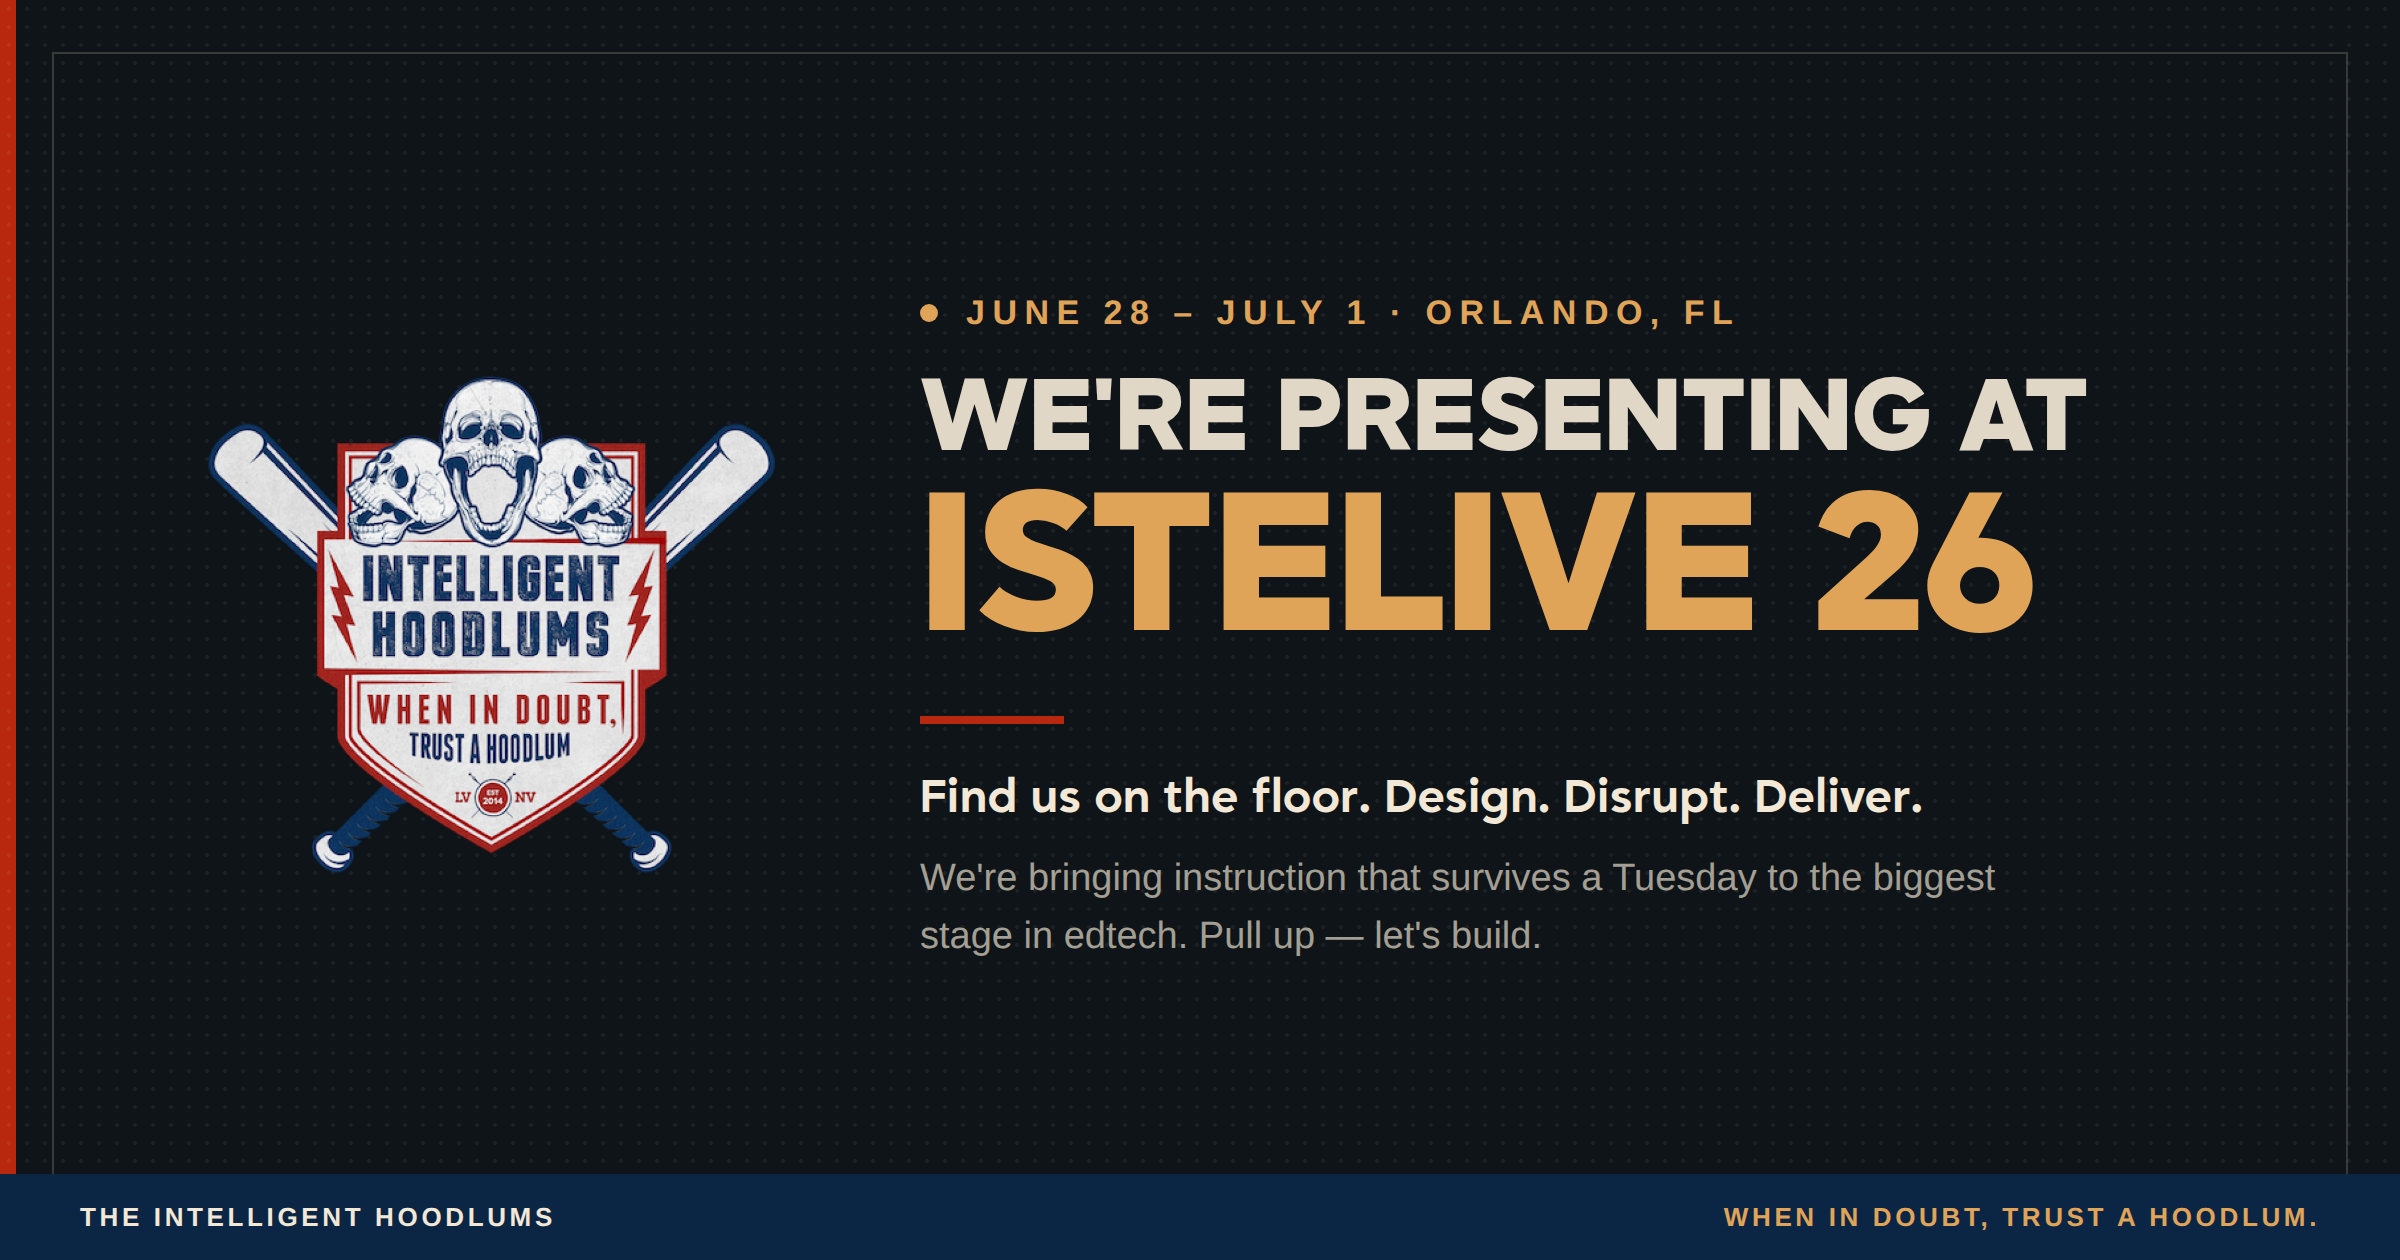
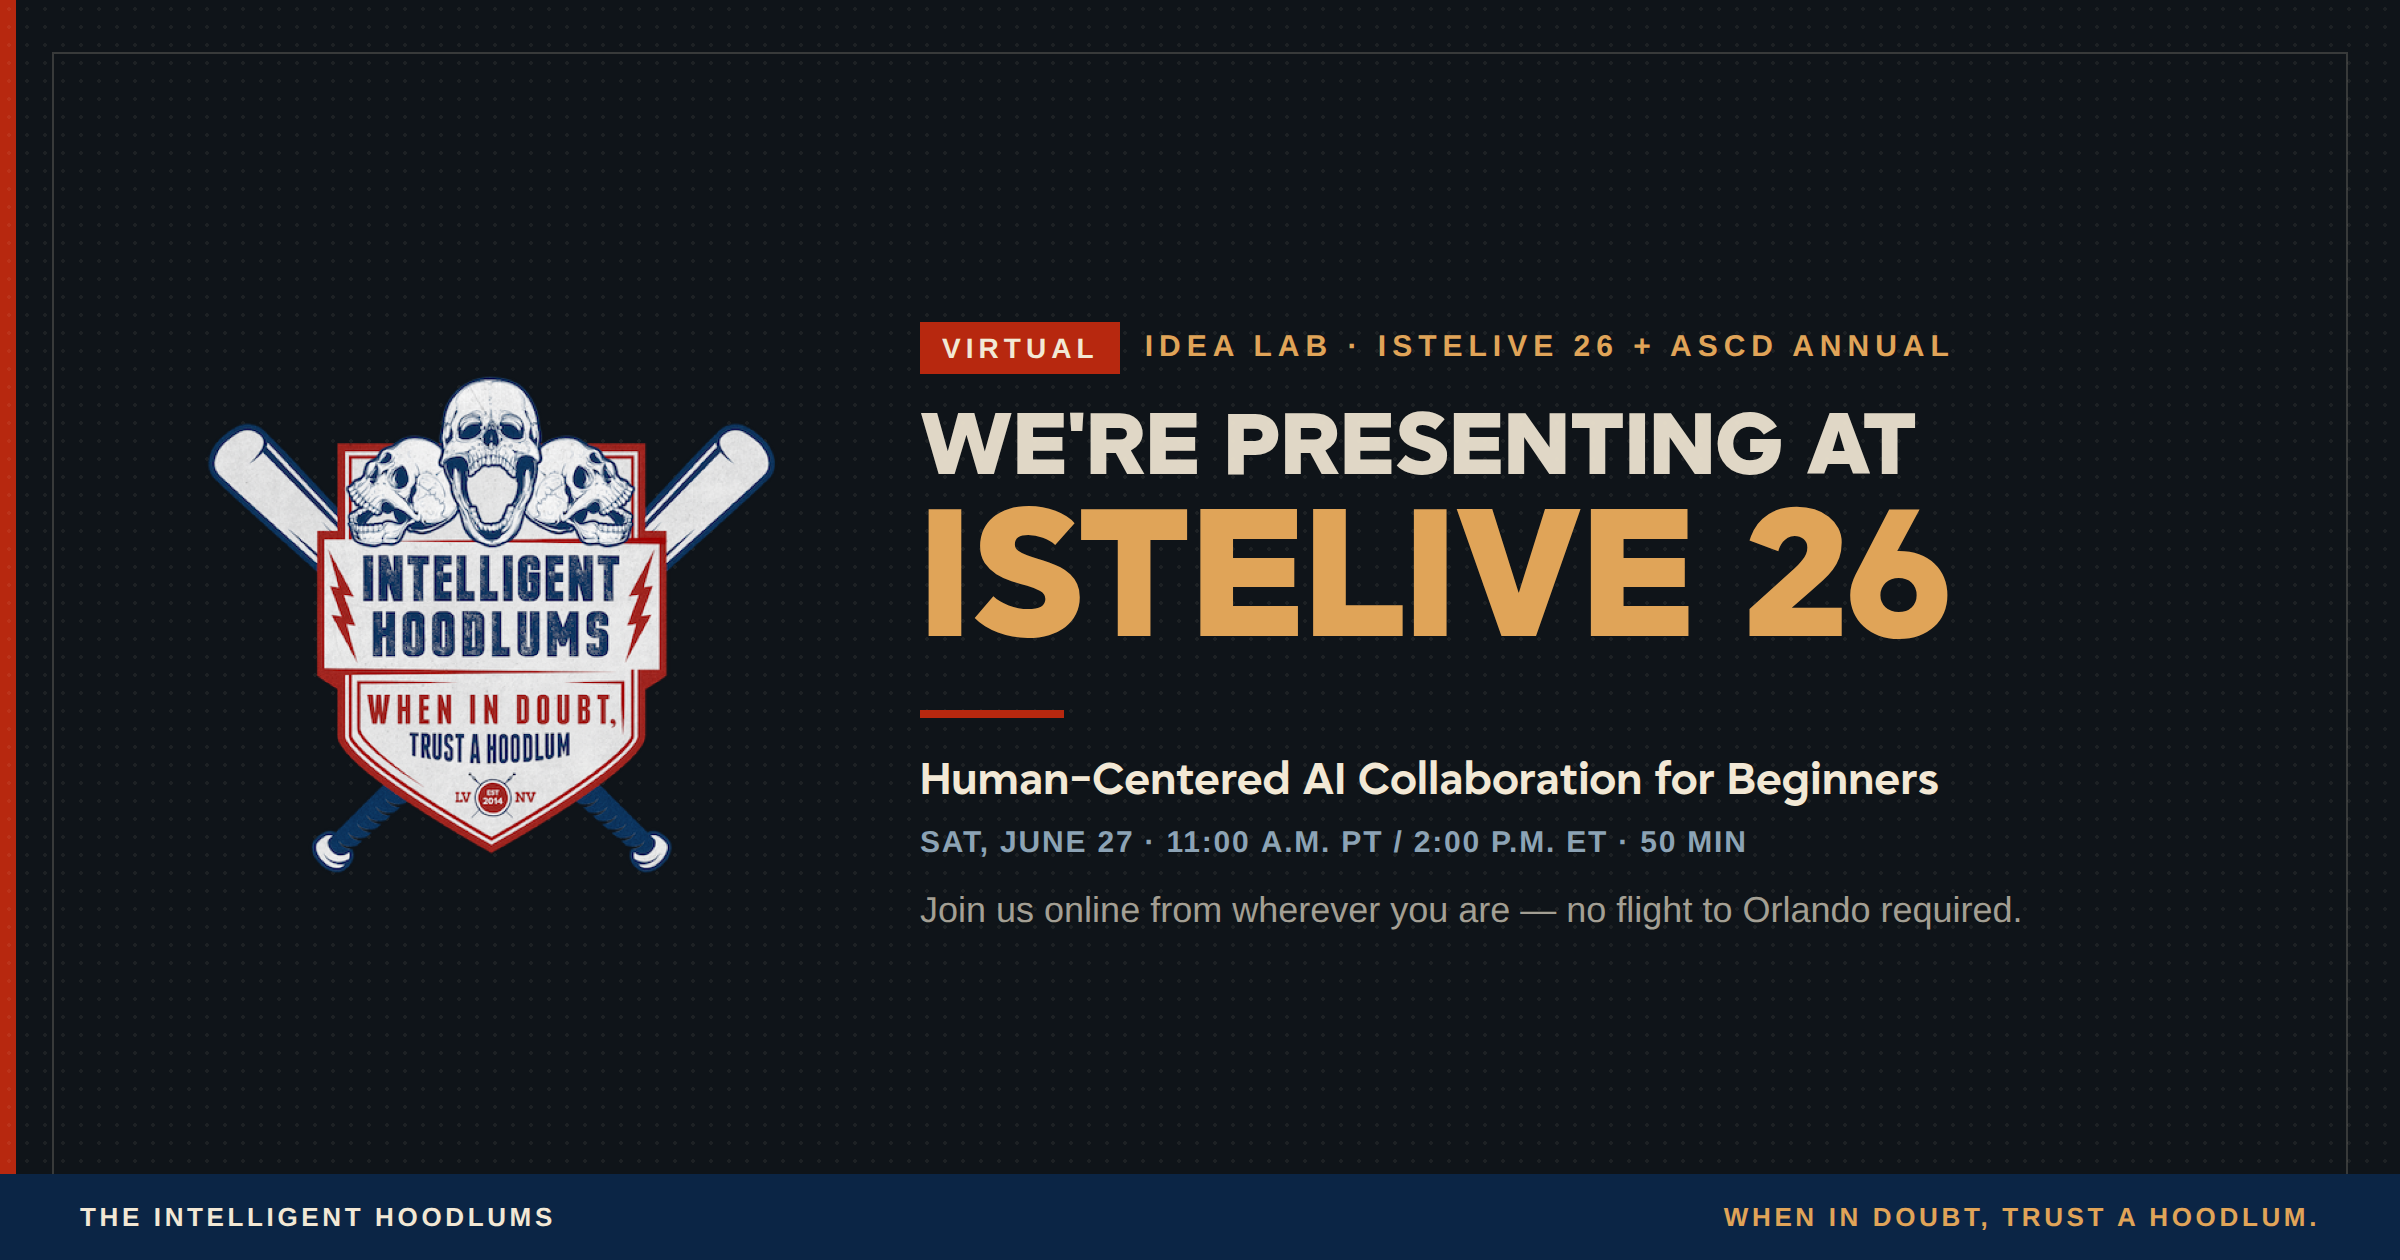
Reframe ISTE graphic as virtual Idea Lab
Match the site's Live section: add Rufous VIRTUAL pill, session title
(Human-Centered AI Collaboration for Beginners), date/time, and the
'join online' hook. Drop the on-floor framing.

https://claude.ai/code/session_01X9pwo18ioowwBNi1SbcHcx

Changed region(s): [[0.375, 0.2167, 0.875, 0.5262], [0.375, 0.5571, 0.8438, 0.7738]]

diff --git a/assets/social/iste-presenting-fb.html b/assets/social/iste-presenting-fb.html
@@ -46,29 +46,39 @@
 
   .kicker{
     font-family:'Helvetica Neue', Arial, sans-serif;
-    font-weight:700; font-size:17px; letter-spacing:0.22em;
+    font-weight:700; font-size:15px; letter-spacing:0.2em;
     text-transform:uppercase; color:var(--tuscany);
-    display:flex; align-items:center; gap:14px;
+    display:flex; align-items:center; gap:12px;
   }
-  .kicker .dot{ width:9px; height:9px; background:var(--tuscany); border-radius:999px; }
+  .kicker .pill{
+    background:var(--rufous); color:var(--bone);
+    font-size:14px; letter-spacing:0.18em; font-weight:700;
+    padding:5px 11px;
+  }
 
   h1{
     font-family:'Grift', sans-serif; font-weight:900; text-transform:uppercase;
-    color:var(--bone); line-height:0.92; letter-spacing:0.01em;
-    margin:18px 0 0;
+    color:var(--bone); line-height:0.9; letter-spacing:0.01em;
+    margin:16px 0 0;
   }
-  h1 .line1{ display:block; font-size:54px; color:rgba(242,232,213,0.92); }
-  h1 .line2{ display:block; font-size:104px; color:var(--tuscany); margin-top:2px; }
+  h1 .line1{ display:block; font-size:46px; color:rgba(242,232,213,0.92); }
+  h1 .line2{ display:block; font-size:96px; color:var(--tuscany); margin-top:2px; }
 
-  .rule{ width:72px; height:4px; background:var(--rufous); border:0; margin:26px 0 22px; }
+  .rule{ width:72px; height:4px; background:var(--rufous); border:0; margin:22px 0 18px; }
 
   .meta{
     font-family:'Grift', sans-serif; font-weight:700;
-    font-size:24px; letter-spacing:0.02em; color:var(--bone);
+    font-size:23px; line-height:1.15; letter-spacing:0.01em; color:var(--bone);
+    max-width:580px;
+  }
+  .when{
+    font-family:'Helvetica Neue', Arial, sans-serif; font-weight:600;
+    font-size:15px; letter-spacing:0.06em; text-transform:uppercase;
+    color:var(--cadet); margin-top:10px;
   }
   .hook{
     font-family:'Helvetica Neue', Arial, sans-serif; font-weight:400;
-    font-size:19px; line-height:1.5; color:rgba(242,232,213,0.66);
+    font-size:18px; line-height:1.5; color:rgba(242,232,213,0.66);
     margin-top:12px; max-width:560px;
   }
 
@@ -92,15 +102,16 @@
     <div class="stage">
       <img class="badge" src="../HM-badge-full.png" alt="The Intelligent Hoodlums badge">
       <div class="copy">
-        <div class="kicker"><span class="dot"></span>June 28 – July 1 · Orlando, FL</div>
+        <div class="kicker"><span class="pill">Virtual</span>Idea Lab · ISTELive&nbsp;26 + ASCD Annual</div>
         <h1>
           <span class="line1">We're presenting at</span>
           <span class="line2">ISTELive&nbsp;26</span>
         </h1>
         <hr class="rule">
-        <div class="meta">Find us on the floor. Design. Disrupt. Deliver.</div>
-        <p class="hook">We're bringing instruction that survives a Tuesday to the
-        biggest stage in edtech. Pull up — let's build.</p>
+        <div class="meta">Human-Centered AI Collaboration for Beginners</div>
+        <div class="when">Sat, June&nbsp;27 · 11:00&nbsp;a.m. PT / 2:00&nbsp;p.m. ET · 50&nbsp;min</div>
+        <p class="hook">Join us online from wherever you are — no flight to
+        Orlando required.</p>
       </div>
     </div>
 
